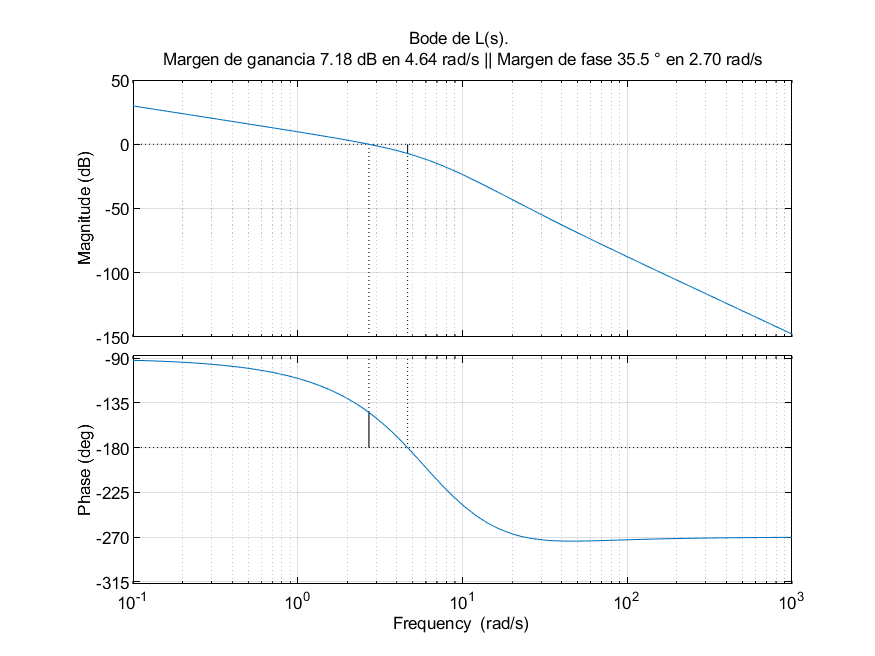
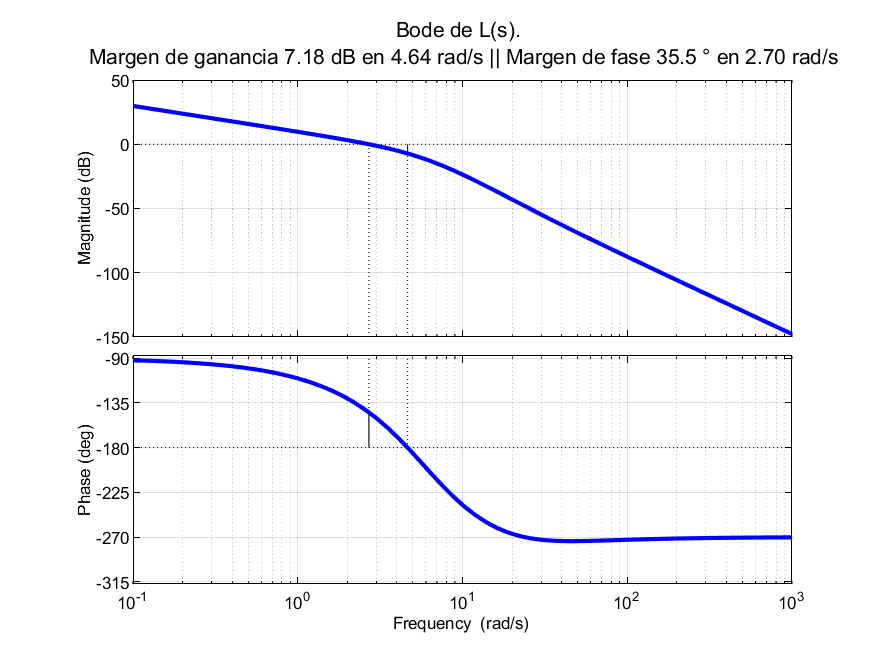
Nuevas fotos

diff --git a/TPs/TP2/Controladores/PI/PI_graficos.m b/TPs/TP2/Controladores/PI/PI_graficos.m
@@ -82,6 +82,8 @@ title('Acción de control');
 
 saveas(fig4, 'PI-Acción de control(escalón).png')
 
+
+%Bode
 fig5 = figure;
 
 opt = bodeoptions;
@@ -93,8 +95,12 @@ opt.PhaseMatchingFreq = 0.1;
 Gm = 20 * log10(Gm);
 margin(L, opt);
 
+lineas = findall(fig5, 'Type', 'line');
+set(lineas(12:14), 'Color', 'b');
+set(lineas(12:14), 'LineWidth', 2);
+
 titulo = sprintf('Bode de L(s). \n Margen de ganancia %.2f dB en %.2f rad/s || Margen de fase %.1f ° en %.2f rad/s', Gm, Wcg, Pm, Wcp);
-title(titulo);
+title(titulo, 'Fontsize', 10);
 grid on;
 
 saveas(fig5, 'PI-Bode de L.png');
